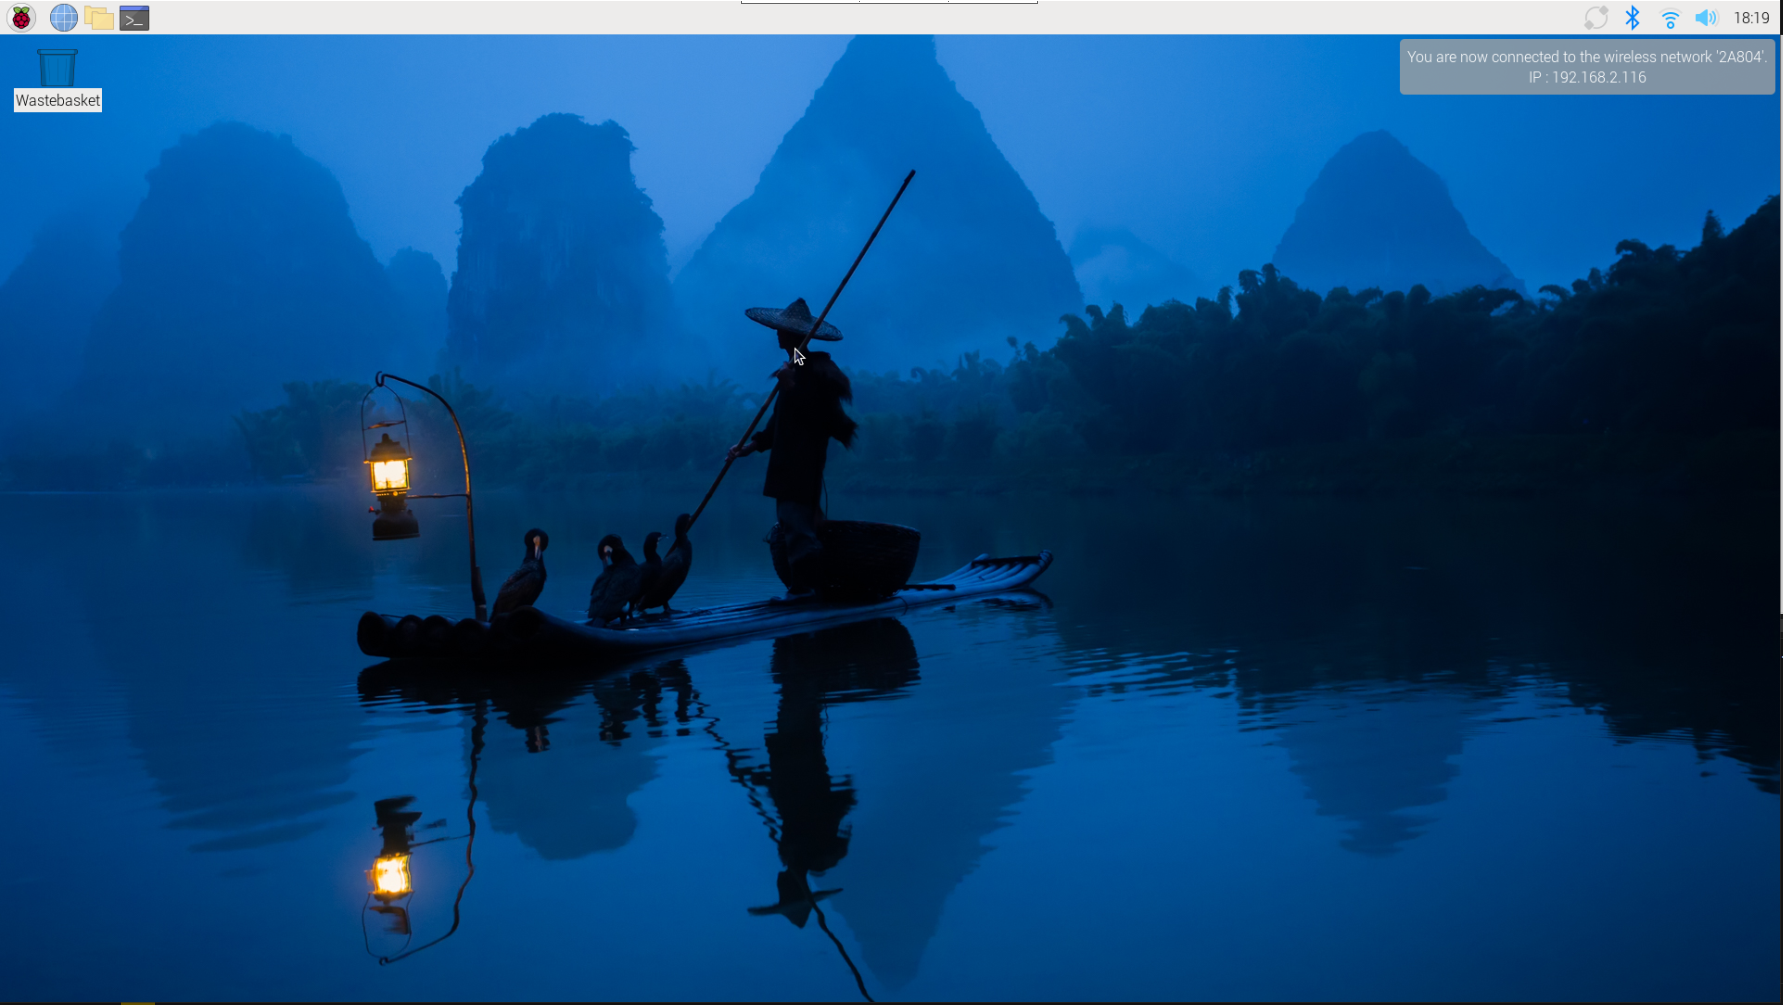
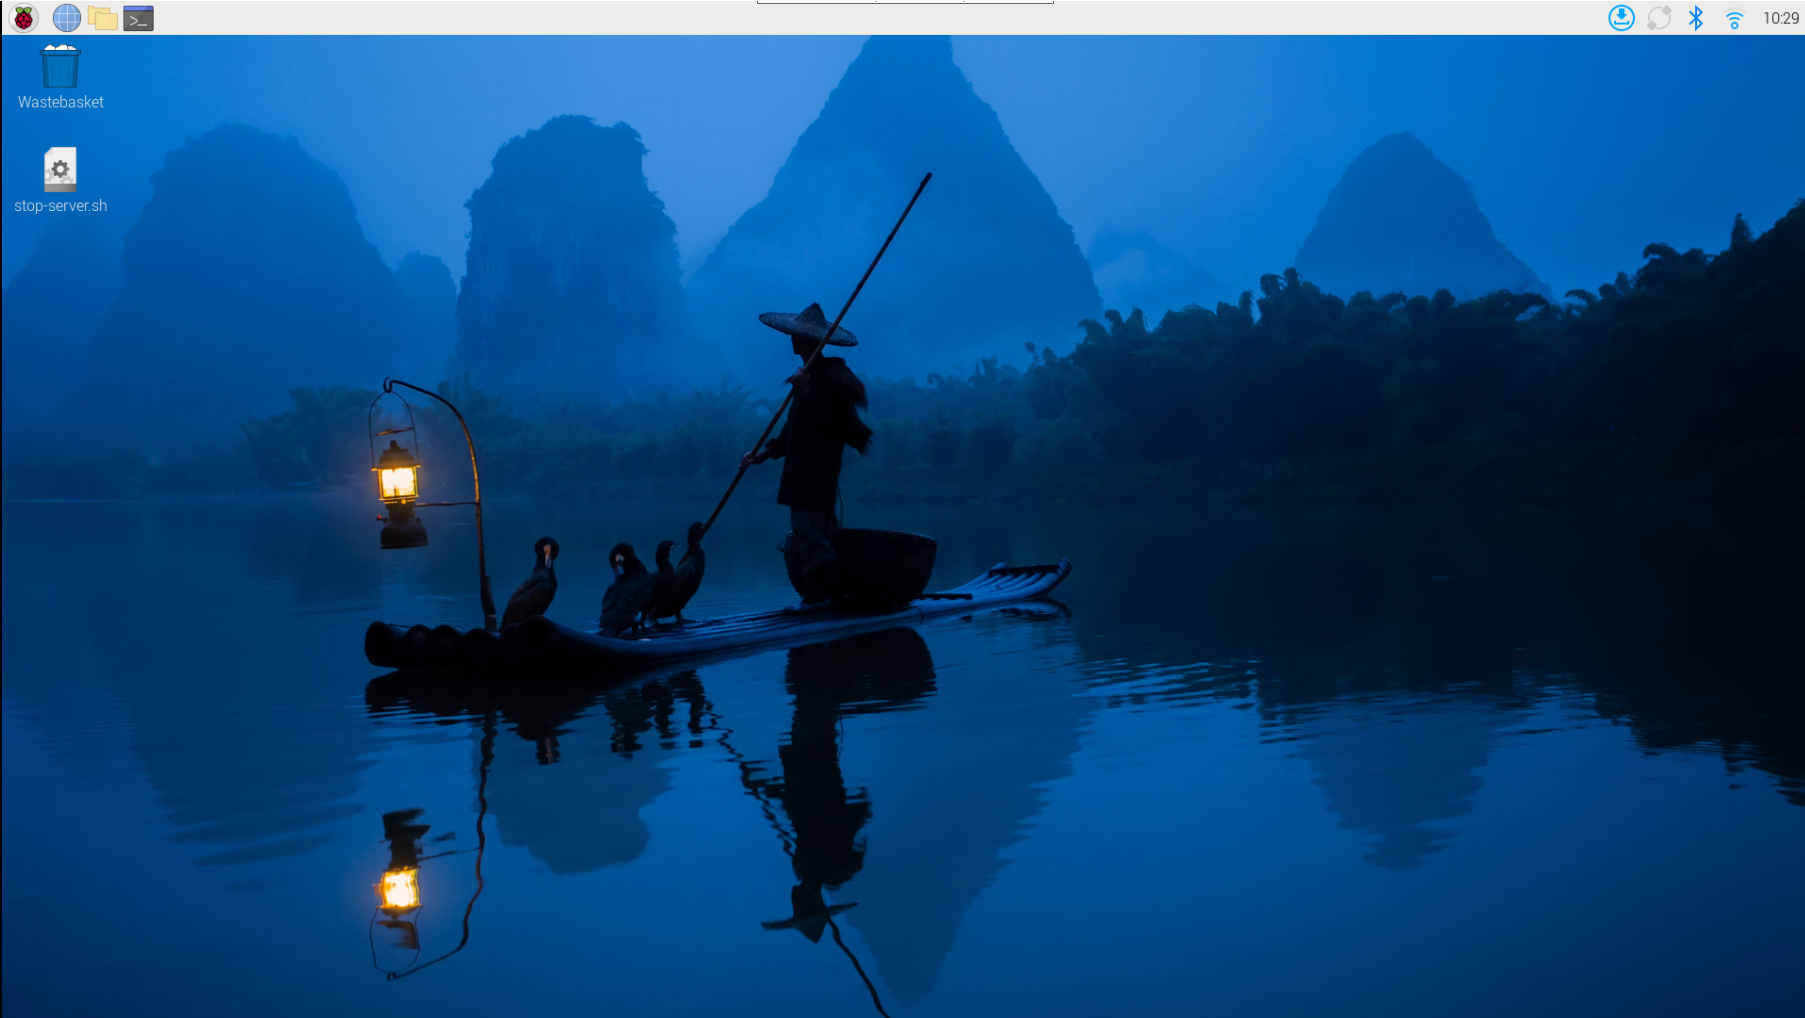
update

diff --git a/docs/source/appendix/how_to_use_vnc_to_access_the_raspberry_pi_desktop.rst b/docs/source/appendix/how_to_use_vnc_to_access_the_raspberry_pi_desktop.rst
@@ -16,37 +16,37 @@ the buttons will light up, and the Raspberry Pi and OLED display will also light
 up. Wait for a while, and the screen will display the IP address, followed by a 
 beep from the car's buzzer.
 
-Step 1
-------
+Step 1 Download VNC Software
+------------------------------
 You need to download and install the  `VNC viewer <https://www.realvnc.com/en/connect/download/viewer/>`_ on personal computer. After the 
 installation is done, open it.
 
-Step 2
-------
+Step 2 Create new connection
+------------------------------------
 Then select “New connection”.
 
 .. image:: ./img/RemoteDesktop_5.png
 
-Step 3
-------
+Step 3 Fill in the ip and name of the raspberry pi
+------------------------------------------------------
 Input IP address of Raspberry Pi and any Name.The IP here is from the car OLED
 
 .. image:: ./img/RemoteDesktop_6.png
 
-Step 4
-------
+Step 4 Double-click to enter the Raspberry Pi GUI
+-----------------------------------------------------
 Double click the connection just created:
 
 .. image:: ./img/RemoteDesktop_9.png
 
-Step 5
-------
+Step 5 Enter verification information
+-----------------------------------------
 Enter Username (pi) and Password(admin).
 
 .. image:: ./img/RemoteDesktop_7.png
 
-Step 6 
-------
+Step 6 Raspberry Pi Desktop
+------------------------------------
 Now you can see the desktop of the Raspberry Pi
 
 .. image:: ./img/desktop1.png
@@ -56,18 +56,24 @@ Now you can see the desktop of the Raspberry Pi
 
 At this point, we have successfully entered the Raspberry Pi system.
 
+.. _test_Subroutine:
+
+Test Subroutine
+^^^^^^^^^^^^^^^^^^^^^^^^^^^^^
+
 If you need to run the car's individual programs, you still need to follow these steps:
 
-Open the terminal
+你能在桌面上找到stop-server.sh这个文件
 
-.. image:: ./img/终端.png
+.. image:: img/desktop2.png
 
-Type in: ``sudo systemctl stop main-server.service`` to temporarily disable the 
-main program.
+你只需要双击它然后在弹出的窗口中选择 ``Excute in Terminal``,等待一会就会有提示 ``Service stopped successfully``
 
-.. image:: ./img/trunoff_main-server.png
+.. image:: img/execute_file.png
 
-Then you can navigate to the folder ``/home/pi/Code/Pi4/Server/`` to find all the 
+.. image:: img/server_stopped.png
+
+Then you can navigate to the folder ``cd /opt/Code/Pi4/Server`` or ``cd /opt/Code/Pi5/Server-pi5`` to find all the 
 car's files, where you can run individual programs.
 
 If you have finished testing and want to run the main program again, you can 

diff --git a/docs/source/5_infrared_line_tracking_car.rst b/docs/source/5_infrared_line_tracking_car.rst
@@ -13,7 +13,7 @@ sensors.
     Before running the standalone program, make sure to shut down the main program 
     ccording to the following sections; otherwise, the standalone program will not 
     be able to start.
-    :ref:`VNC`
+    :ref:`test_subroutine`
 
 .. note:: 
 
@@ -26,7 +26,7 @@ sensors.
 Run program
 ------------   
 1. You can jump to the project folder directly by running this command:
-``cd /home/pi/Code/Pi4/Server``
+``cd /opt/Code/Pi4/Server`` or ``cd /opt/Code/Pi5/Server-pi5``
 
 .. image:: ./img/5/path.png
 

diff --git a/docs/source/6_ultrasonic_avoidance_car.rst b/docs/source/6_ultrasonic_avoidance_car.rst
@@ -15,12 +15,12 @@ car to move according to different distances.
     Before running the standalone program, make sure to shut down the main program 
     ccording to the following sections; otherwise, the standalone program will not 
     be able to start.
-    :ref:`VNC`
+    :ref:`test_subroutine`
 
 Run program
 ------------   
 1. You can jump to the project folder directly by running this command:
-``cd /home/pi/Code/Pi4/Server``
+``cd /opt/Code/Pi4/Server`` or ``cd /opt/Code/Pi5/Server-pi5``
 
 .. image:: ./img/4/path.png
 

diff --git a/docs/source/4_light_tracking_car.rst b/docs/source/4_light_tracking_car.rst
@@ -23,12 +23,12 @@ Put your car in a darker environment.
     Before running the standalone program, make sure to shut down the main program 
     ccording to the following sections; otherwise, the standalone program will not 
     be able to start.
-    :ref:`VNC`
+    :ref:`test_subroutine`
 
 Run program
 ------------   
 1. You can jump to the project folder directly by running this command:
-``cd /home/pi/Code/Pi4/Server``
+``cd /opt/Code/Pi4/Server`` or ``cd /opt/Code/Pi5/Server-pi5``
 
 .. image:: ./img/3/path.png
 
